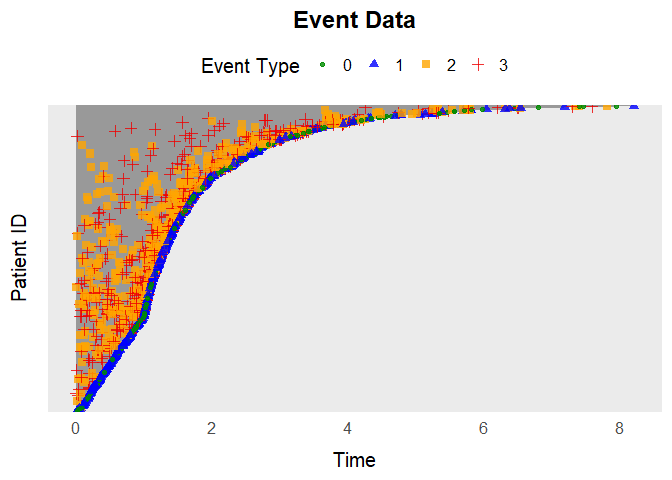
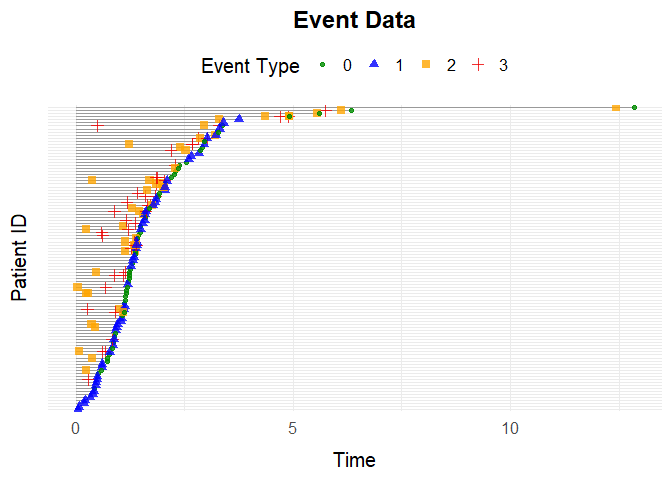
minors

diff --git a/README.md b/README.md
@@ -24,6 +24,7 @@ The simevent package
     data](#example-7-simulating-data-from-data)
     - [Using `simEventCox`](#using-simeventcox)
     - [Using `simEventRF`](#using-simeventrf)
+  - [Example 8: Interventions](#example-8-interventions)
 
 # simevent
 
@@ -81,15 +82,16 @@ functions. Each function in the package is described and
 
 **Functions relating to simulating from data**
 
-| Function         | Description            | Key Arguments  | Example            |
-|------------------|------------------------|----------------|--------------------|
-| `plot_summary()` | Creates summary plots. | `data`, `type` | `plot_summary(df)` |
+| Function | Description | Key Arguments | Example |
+|----|----|----|----|
+| `simEventCox()` | Simulates new data using fitted Cox proportional hazard models | `N`, `cox_fits`, `L0_old`, `A0_old` | `simEventCox(N, cox_fits, L0_old, A0_old)` |
+| `simEventRF()` | Simulates new data using a random forest fitted using the `randomForestSRC` package | `N`, `RF_fit` | `plot_summary(df)` |
 
 **Functions for performing interventions**
 
-| Function         | Description            | Key Arguments  | Example            |
-|------------------|------------------------|----------------|--------------------|
-| `plot_summary()` | Creates summary plots. | `data`, `type` | `plot_summary(df)` |
+| Function            | Description | Key Arguments | Example               |
+|---------------------|-------------|---------------|-----------------------|
+| `alphaSimDisease()` | xxx         | `xx`, `xx`    | `alphaSimDisease(xx)` |
 
 ## Installation
 
@@ -160,9 +162,9 @@ function of covariates:
 # at risk function
 at_risk_cov <- function(covariates) {
   return(c(
-    1,1,                               # The covariates do not change the risk of event 1 and 2
-    as.numeric(covariates[1] < 0.5),   # Only at risk of event 3 if L0 < 0.5
-    as.numeric(covariates[2] == 1),    # Only at risk of event 4 if A0 = 1
+    1,1,                               # The covariates do not change the risk of event 0 and 1
+    as.numeric(covariates[1] < 0.5),   # Only at risk of event 2 if L0 < 0.5
+    as.numeric(covariates[2] == 1),    # Only at risk of event 3 if A0 = 1
     1))                                # The covariates do not change the risk of event 4
 }
 ```
@@ -171,7 +173,8 @@ Simulate data for 5000 individuals:
 
 ``` r
 set.seed(973)
-data <- simEventData(N = 5000, beta = beta, add_cov = add_cov, at_risk = at_risk, at_risk_cov = at_risk_cov)
+data <- simEventData(N = 5000, beta = beta, add_cov = add_cov, at_risk = at_risk,
+                     at_risk_cov = at_risk_cov)
 ```
 
 Preview the simulated data:
@@ -436,7 +439,7 @@ tv_eff <- matrix(0.5, ncol = 4, nrow = 6)
 beta <- matrix(nrow = 6, ncol = 4, 0.5)
 t_prime <- 1
 
-data <- simEventTV(N = 1000, t_prime = t_prime, tv_eff = tv_eff, eta = eta,
+data <- simEventTV(N = 100, t_prime = t_prime, tv_eff = tv_eff, eta = eta,
                    term_deltas = term_deltas, beta = beta, lower = 10^(-15), upper = 10^2,
                    max_events = 5)
 
@@ -447,6 +450,79 @@ plotEventData(data)
 
 ## Example 7: Simulating data from data
 
+Imagine we have observed data:
+
+``` r
+set.seed(373)
+beta = matrix(c(0.5,-1,-0.5,0.5,0,0.5), ncol = 3, nrow = 2)
+data <- simCRdata(N = 1000, beta = beta)
+```
+
 ### Using `simEventCox`
 
+If we want to use `simEventCox` for simulating new data from the
+observed data, we first need to fit Cox models:
+
+``` r
+cox1 <- coxph(Surv(Time, Delta == 1) ~ L0 + A0, data = data)
+cox2 <- coxph(Surv(Time, Delta == 2) ~ L0 + A0, data = data)
+```
+
+Then we can call the function `simEventCox` providing the fitted Cox
+models as arguments:
+
+``` r
+cox_fits <- list("Process 1" = cox1, "Process 2" = cox2)
+new_data <- simEventCox(100, cox_fits, L0_old = data$L0, A0_old = data$A0)
+```
+
+The new simulated data looks like:
+
+``` r
+head(new_data)
+#> Key: <ID>
+#>       ID      Time Delta        L0    A0 Process 1 Process 2
+#>    <int>     <num> <int>     <num> <num>     <num>     <num>
+#> 1:     1  2.175382     1 0.5363954     0         1         0
+#> 2:     2  7.139631     1 0.3144497     0         1         0
+#> 3:     3  2.766344     1 0.9335247     1         1         0
+#> 4:     4  3.570241     2 0.2502356     0         0         1
+#> 5:     4 12.695609     1 0.2502356     0         1         1
+#> 6:     5  5.055418     1 0.5462261     1         1         0
+```
+
 ### Using `simEventRF`
+
+If we want to use `simEventRF` for simulating new data from the observed
+data, we need to fit a random forest model using `rfsrc` from the
+`randomForestSRC` package:
+
+``` r
+RF_fit <- randomForestSRC::rfsrc(Surv(Time, Delta) ~ L0 + A0, data = data)
+```
+
+Then we can call the function `simEventRF` providing the fitted Random
+Forest as argument:
+
+``` r
+new_data <- simEventRF(100, RF_fit, L0_old = data$L0, A0_old = data$A0, term_events = c(1,2))
+```
+
+The new simulated data looks like:
+
+``` r
+head(new_data)
+#> Key: <ID>
+#>       ID      Time Delta         L0    A0    N1    N2
+#>    <int>     <num> <int>      <num> <num> <num> <num>
+#> 1:     1 1.1913258     1 0.40253050     1     1     0
+#> 2:     2 1.4620976     2 0.80094849     0     0     1
+#> 3:     3 7.3221851     2 0.03707728     0     0     1
+#> 4:     4 0.3824161     1 0.84810211     1     1     0
+#> 5:     5 1.6035695     2 0.99071345     1     0     1
+#> 6:     6 5.4367335     2 0.98173073     1     0     1
+```
+
+## Example 8: Interventions
+
+Yet to be written…
